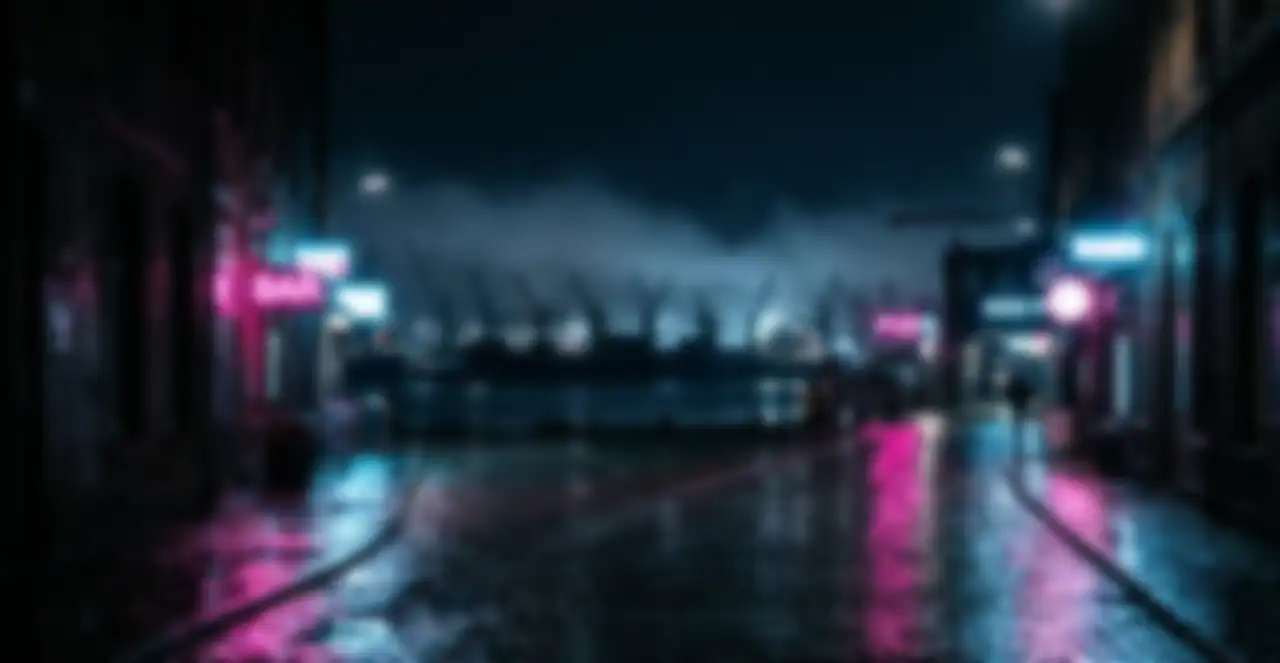
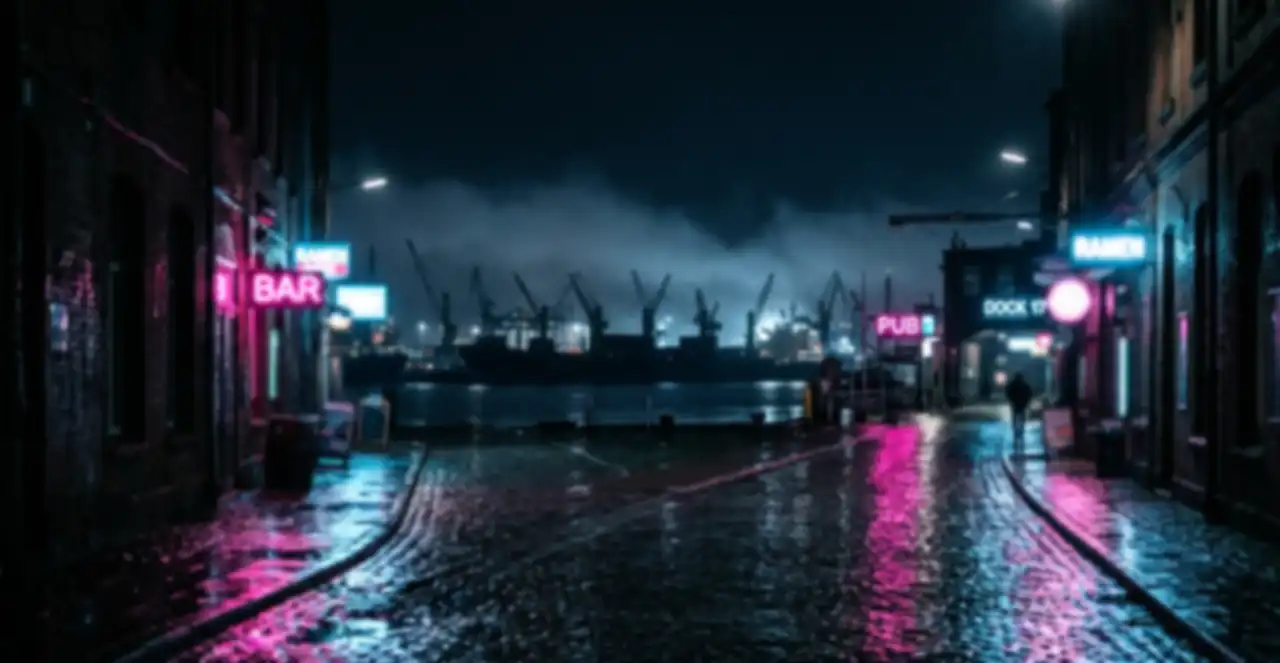
背景画像の視認性改善: brightness 0.3→0.55, overlay透過度↑, blur軽減

diff --git a/src/index.css b/src/index.css
@@ -59,7 +59,7 @@ body {
   background-size: cover;
   background-position: center;
   background-repeat: no-repeat;
-  filter: blur(2px) brightness(0.3) saturate(1.4);
+  filter: blur(1px) brightness(0.55) saturate(1.3);
   transform: scale(1.05); /* blur edge bleed prevention */
 }
 
@@ -69,9 +69,9 @@ body {
   inset: 0;
   background:
     linear-gradient(180deg,
-      rgba(5,5,16,0.85) 0%,
-      rgba(26,21,32,0.7) 40%,
-      rgba(37,30,46,0.8) 100%);
+      rgba(5,5,16,0.6) 0%,
+      rgba(26,21,32,0.5) 40%,
+      rgba(37,30,46,0.6) 100%);
 }
 
 .bar-bg > *:not(.bar-bg-image) {
